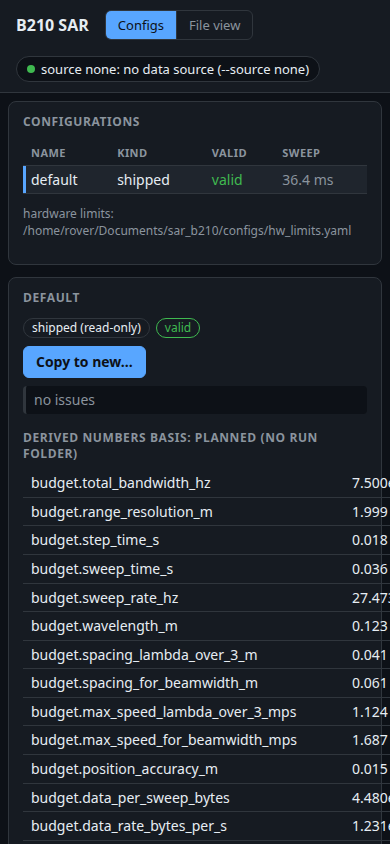
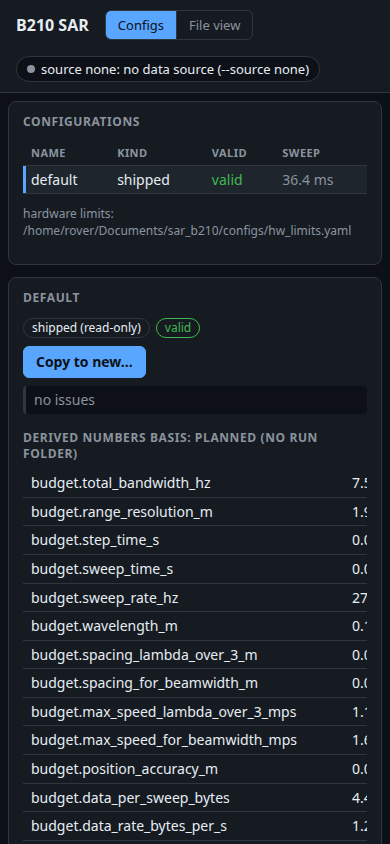
Coder: b210-23 -- follow-up: narrow-screen table scroll, neutral status dot
Directive: b210-23
Tracker: no tracker

Claude-Session: https://claude.ai/code/session_012SGcFeRLywrBLC2k5btXwv

Changed region(s): [[0.9231, 0.5545, 1.0, 0.9858], [0.0615, 0.0616, 0.0923, 0.0924]]

diff --git a/src/b210_sar/gui/web/js/main.js b/src/b210_sar/gui/web/js/main.js
@@ -3,12 +3,12 @@ import { initConfigs } from "./configs.js";
 import { initFileView, onMessage as fileMessage } from "./fileview.js";
 
 const status = document.getElementById("status");
-let connected = false, last = "";
+let connected = false, last = "", live = false;
 function render() {
   status.textContent = connected ? (last || "connected") : "disconnected";
-  document.getElementById("statusdot").className = "dot " + (connected ? "ok" : "bad");
+  document.getElementById("statusdot").className = "dot " + (!connected ? "bad" : live ? "ok" : "");  // neutral grey for no source / idle
 }
-connectStream((m) => { fileMessage(m); if (m.type === "status") { last = `source ${m.source}: ${m.msg || m.state}`; render(); } },
+connectStream((m) => { fileMessage(m); if (m.type === "status") { live = m.source !== "none" && m.state !== "idle"; last = `source ${m.source}: ${m.msg || m.state}`; render(); } },
               (up) => { connected = up; render(); });
 
 const tabBtns = [...document.querySelectorAll("#tabs button")];

diff --git a/src/b210_sar/gui/web/style.css b/src/b210_sar/gui/web/style.css
@@ -47,3 +47,5 @@ pre { background:var(--bg); border:1px solid var(--line); border-radius:6px; pad
 canvas { max-width:100%; background:var(--bg); border:1px solid var(--line); border-radius:6px; display:block; margin:8px 0; }
 #fv-steps span { display:inline-block; padding:0 6px; margin-right:4px; border:1px solid var(--line); border-radius:8px; }
 @media (max-width:600px) { main { padding:8px; } .col.list { max-width:none; } .pill { margin-left:0; } #cfg-fields input { width:110px; } #fv-pos { width:100% !important; } }
+
+#cfg-derived-wrap { overflow-x:auto; }

diff --git a/src/b210_sar/gui/web/index.html b/src/b210_sar/gui/web/index.html
@@ -80,7 +80,7 @@
           </form>
           <div id="cfg-issues"></div>
           <h3>Derived numbers <span class="muted small" id="basis"></span></h3>
-          <table id="cfg-derived"><tbody></tbody></table>
+          <div id="cfg-derived-wrap"><table id="cfg-derived"><tbody></tbody></table></div>
           <h3>YAML <span class="muted small" id="ro-note"></span></h3>
           <pre id="cfg-yaml"></pre>
         </div>

diff --git a/docs/gui_parity/README.md b/docs/gui_parity/README.md
@@ -21,3 +21,5 @@ view that always came up); radar_gui `before/radar_gui/{cfg,configs}-*`; console
 | 11 | Header | Live stats strip and session pill with Set up | - | defer: needs capture/session; out of scope (no radio) |
 | 12 | Data view | 3D/point cloud, ADC, Tune, Logs tabs | - | defer: intentionally dropped (no point cloud, no DCA1000) |
 | 13 | Config list | Filter box, multi-select delete, file-preview pane | low | defer: list is tiny; revisit when it grows |
+| 14 | Layout/nav | Configs derived-numbers table clipped at 390 px | low | fixed (horizontal scroll inside its card) |
+| 15 | Status/error | Status dot green with source none; others grey for no session | low | fixed (grey unless a source is open) |
